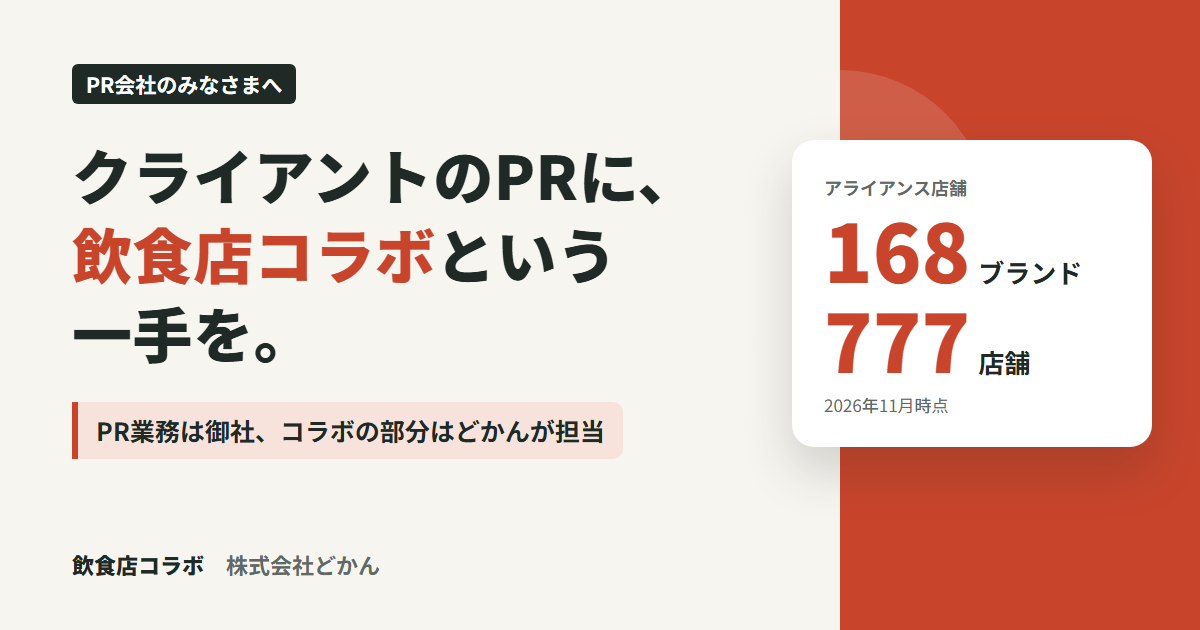
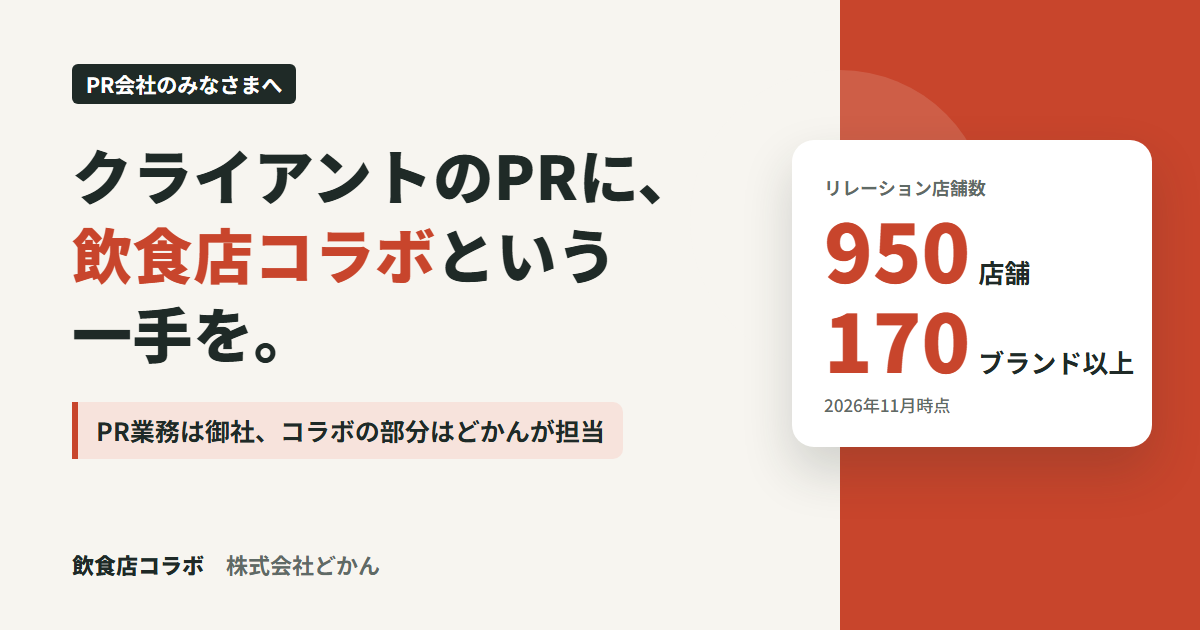
PR会社向けLP：表記を「リレーション店舗数」に統一（950店舗・170ブランド以上）、OGP画像も差し替え

diff --git a/collabo/pr/index.html b/collabo/pr/index.html
@@ -5,20 +5,20 @@
 <meta name="viewport" content="width=device-width, initial-scale=1">
 <title>飲食店コラボのご案内（PR会社のみなさまへ）｜株式会社どかん</title>
 <meta name="robots" content="noindex, nofollow, noarchive">
-<meta name="description" content="168ブランド・777店舗の飲食店ネットワークで、クライアントのPRに飲食店コラボを。PR業務は御社のまま、どかんはコラボの部分を担当します。御社スタッフと一緒にプランニングすることも、コラボ部分だけをアレンジすることもできます。">
+<meta name="description" content="リレーション店舗数950店舗（170ブランド以上）の飲食店ネットワークで、クライアントのPRに飲食店コラボを。PR業務は御社のまま、どかんはコラボの部分を担当します。御社スタッフと一緒にプランニングすることも、コラボ部分だけをアレンジすることもできます。">
 <meta property="og:type" content="website">
 <meta property="og:site_name" content="株式会社どかん">
 <meta property="og:title" content="飲食店コラボのご案内（PR会社のみなさまへ）｜株式会社どかん">
-<meta property="og:description" content="168ブランド・777店舗の飲食店ネットワークで、クライアントのPRに飲食店コラボを。御社と一緒にプランニングも、コラボ部分だけのアレンジも。">
+<meta property="og:description" content="リレーション店舗数950店舗（170ブランド以上）の飲食店ネットワークで、クライアントのPRに飲食店コラボを。御社と一緒にプランニングも、コラボ部分だけのアレンジも。">
 <meta property="og:url" content="https://www.docaninc.com/collabo/pr/">
 <meta property="og:image" content="https://www.docaninc.com/collabo/pr/ogp.png">
 <meta property="og:image:width" content="1200">
 <meta property="og:image:height" content="630">
-<meta property="og:image:alt" content="クライアントのPRに、飲食店コラボという一手を。168ブランド・777店舗のアライアンス店舗。PR業務は御社、コラボ部分はどかん">
+<meta property="og:image:alt" content="クライアントのPRに、飲食店コラボという一手を。リレーション店舗数950店舗（170ブランド以上）。PR業務は御社、コラボ部分はどかん">
 <meta property="og:locale" content="ja_JP">
 <meta name="twitter:card" content="summary_large_image">
 <meta name="twitter:title" content="飲食店コラボのご案内（PR会社のみなさまへ）｜株式会社どかん">
-<meta name="twitter:description" content="168ブランド・777店舗の飲食店ネットワークで、クライアントのPRに飲食店コラボを。御社と一緒にプランニングも、コラボ部分だけのアレンジも。">
+<meta name="twitter:description" content="リレーション店舗数950店舗（170ブランド以上）の飲食店ネットワークで、クライアントのPRに飲食店コラボを。御社と一緒にプランニングも、コラボ部分だけのアレンジも。">
 <meta name="twitter:image" content="https://www.docaninc.com/collabo/pr/ogp.png">
 <link rel="icon" href="/favicon.ico" sizes="any">
 <link rel="icon" href="/favicon.png" type="image/png">
@@ -469,16 +469,16 @@
       <div>
         <div class="for-whom"><span>PR会社のみなさまへ</span></div>
         <h1><span class="nw">クライアントのPRに、</span><br><span class="nw"><em>飲食店コラボ</em>という</span><span class="nw">一手を。</span></h1>
-        <p>どかんは、168ブランド・777店舗の飲食店とアライアンスを組んでいます。PRの業務は御社が担い、どかんはコラボの部分を担当します。御社のスタッフと一緒にプランニングすることも、コラボの部分だけをアレンジすることもできます。</p>
+        <p>どかんのリレーション店舗数は、170ブランド以上・950店舗です。PRの業務は御社が担い、どかんはコラボの部分を担当します。御社のスタッフと一緒にプランニングすることも、コラボの部分だけをアレンジすることもできます。</p>
         <div class="hero-actions">
           <a class="btn" href="#contact">相談してみる</a>
           <a class="btn ghost" href="#ways">組み方を見る</a>
         </div>
       </div>
-      <div class="stat-card" aria-label="アライアンス店舗の規模">
-        <div class="label">アライアンスを組んでいる飲食店</div>
-        <div class="stat-row"><b>168</b><span>ブランド</span></div>
-        <div class="stat-row"><b>777</b><span>店舗</span></div>
+      <div class="stat-card" aria-label="リレーション店舗数">
+        <div class="label">リレーション店舗数</div>
+        <div class="stat-row"><b>950</b><span>店舗</span></div>
+        <div class="stat-row"><b>170</b><span>ブランド以上</span></div>
         <p class="stat-note">2026年11月時点。2,000店舗に向けて拡大中</p>
         <hr>
         <div class="label">業態の例</div>
@@ -549,7 +549,7 @@
     <div class="wrap">
       <span class="eyebrow">ALLIANCE SHOPS</span>
       <h2>発信力と話題性のあるお店が、<span class="nw">そろっています</span></h2>
-      <p class="lead">アライアンス店舗には、それ自体がメディアやSNSで話題になるお店が多く含まれています。コラボの舞台そのものが、発信の起点になります。</p>
+      <p class="lead">リレーション店舗には、それ自体がメディアやSNSで話題になるお店が多く含まれています。コラボの舞台そのものが、発信の起点になります。</p>
       <div class="shop-grid">
         <div class="shop"><span class="shop-kind">レストラン</span><h3>有名シェフがプロデュースするお店</h3></div>
         <div class="shop"><span class="shop-kind">ラーメン</span><h3>1か月に約6万人が来店するラーメン店</h3></div>
@@ -601,8 +601,8 @@
       <div class="reason-list">
         <div class="reason">
           <div class="num">1</div>
-          <h3>168ブランド・777店舗のお店をベースにそれ以外のお店も含めて合うお店を調整</h3>
-          <p>カフェからラーメン、居酒屋まで、さまざまな業態の飲食店とアライアンスを組んでいます。クライアントの商品やねらう客層、エリアに合わせてお店をご提案します。</p>
+          <h3>リレーション店舗数950店舗のお店をベースにそれ以外のお店も含めて合うお店を調整</h3>
+          <p>カフェからラーメン、居酒屋まで、さまざまな業態の飲食店とリレーションがあります。クライアントの商品やねらう客層、エリアに合わせてお店をご提案します。</p>
         </div>
         <div class="reason">
           <div class="num">2</div>
@@ -696,7 +696,7 @@
         </details>
         <details>
           <summary>お店の業態やエリアを指定できますか？</summary>
-          <p>はい。ご希望の業態・客層・エリアを伺い、アライアンス店舗をベースに、それ以外のお店も含めて合うお店をご提案します。</p>
+          <p>はい。ご希望の業態・客層・エリアを伺い、リレーション店舗をベースに、それ以外のお店も含めて合うお店をご提案します。</p>
         </details>
         <details>
           <summary>どのくらい前に相談すればよいですか？</summary>
